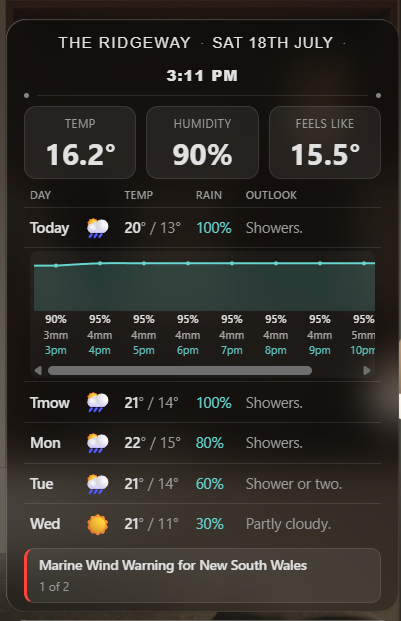
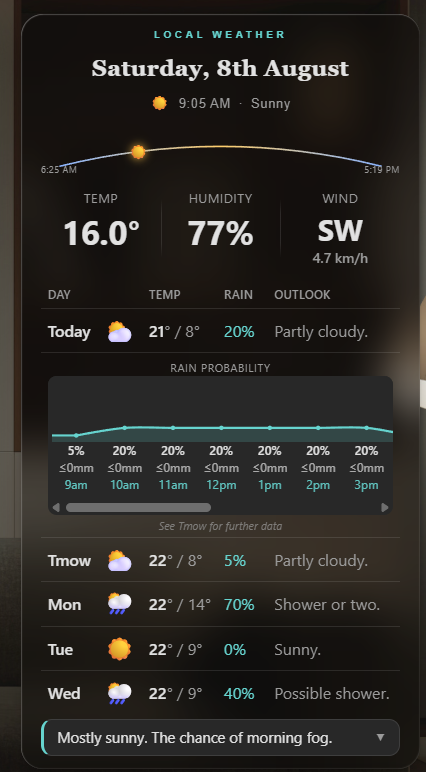
Add Air Quality feature (NSW), sync temp graph docs, refresh screenshots
Ports the NSW air quality reading and header_icon attribute that were live
in production but never pushed here — Box 3 can now show a severe/poor AQI
category (severe outranks even a high wind gust), fully optional via a
blank site ID. Also documents the temperature graph / raw grid tap-cycle
that shipped in dist/ but was never written up, and swaps all screenshots
for the current masthead+sun-arc header design.

diff --git a/dist/ha-weatherflow-bom-weathercard.js b/dist/ha-weatherflow-bom-weathercard.js
@@ -90,6 +90,8 @@ const STYLE = `
   .box1.tappable:active, .box2.tappable:active { transform: scale(0.97); transition: transform 0.08s; }
 
   .box3.rain .value { color: #66D4CF; }
+  .box3.aqi-poor .value { color: #FF9F0A; }
+  .box3.aqi-severe .value { color: #FF453A; animation: text-pulse-red 4s ease-in-out infinite; }
   .box3.lightning .value, .box3.wind-notable .value { color: #FF9F0A; }
   .box.high-temp-notable .value, .box3.feels-hotter-notable .value { color: #FF9F0A; }
   .box3.high-wind .value, .box3.uv-extreme .value,
@@ -526,6 +528,7 @@ class Dash4WeatherCard extends HTMLElement {
   // cell to actual rendered content instead of reserving a fixed-height track that can
   // never exactly match it (box3's alert-lines block is variable height: 0/1/2 lines,
   // cyclable, and the fallback forecast text can expand to its full length).
+  // See docs/reference/best-practices/lovelace-custom-cards.md.
   getGridOptions() {
     return { columns: 12 };
   }

diff --git a/docs/box3-guide.md b/docs/box3-guide.md
@@ -1,10 +1,10 @@
 # Box 3 — How the Auto-Priority Reading Works
 
-Box 3 shows one reading at a time out of seven possible metrics (Wind, Rain,
-Lightning, UV, and three Feels-Like variants). In **Auto** mode it picks
-whichever one is most worth your attention right now, using a fixed priority
-order re-evaluated every time any underlying sensor changes — there's no
-polling interval or hold timer involved in the *selection* itself.
+Box 3 shows one reading at a time out of eight possible metrics (Wind, Rain,
+Lightning, UV, Air Quality, and three Feels-Like variants). In **Auto** mode
+it picks whichever one is most worth your attention right now, using a fixed
+priority order re-evaluated every time any underlying sensor changes —
+there's no polling interval or hold timer involved in the *selection* itself.
 
 ## The priority cascade
 
@@ -12,44 +12,65 @@ polling interval or hold timer involved in the *selection* itself.
 flowchart TD
     Start(["Box 3 recomputes<br/>(any underlying sensor changed)"]) --> Manual{"Manual pin<br/>active?"}
     Manual -->|"Yes (tap-to-cycle)"| ShowManual["Show the pinned reading<br/>(colour/pulse rules below still apply)"]
-    Manual -->|"No — Auto"| P1{"Gust ≥ 60 km/h?"}
-    P1 -->|Yes| Wind["🔴 Wind — pulsing red"]
-    P1 -->|No| P2{"'Feels colder' gap<br/>notable for this temp?"}
-    P2 -->|Yes| Cold["🔵 Feels Colder"]
-    P2 -->|No| P3{"'Feels hotter' gap<br/>notable for this temp?"}
-    P3 -->|Yes| Hot["🔴 Feels Hotter"]
-    P3 -->|No| P4{"Rain intensity<br/>= Extreme?"}
-    P4 -->|Yes| RainExt["🔴 Rain — pulsing red"]
-    P4 -->|No| P5{"Lightning ≥ 10<br/>strikes in last hour?"}
-    P5 -->|Yes| LightExt["🔴 Lightning — pulsing red"]
-    P5 -->|No| P6{"UV index ≥ 11<br/>(Extreme rating)?"}
-    P6 -->|Yes| UvExt["🔴 UV — pulsing red"]
-    P6 -->|No| P7{"Any rain<br/>falling right now?"}
-    P7 -->|Yes| RainAct["🟦 Rain — teal"]
-    P7 -->|No| P8{"Any lightning<br/>in the last hour?"}
-    P8 -->|Yes| LightAct["🟠 Lightning — amber"]
-    P8 -->|No| WindDefault["🌬 Wind (default fallback)<br/>≥ 20 km/h gust → amber 'Gusting'"]
+    Manual -->|"No — Auto"| P1{"Air quality Very Poor<br/>or Extremely Poor?"}
+    P1 -->|Yes| AqiSevere["🔴 Air Quality — pulsing red"]
+    P1 -->|No| P2{"Gust ≥ 60 km/h?"}
+    P2 -->|Yes| Wind["🔴 Wind — pulsing red"]
+    P2 -->|No| P3{"'Feels colder' gap<br/>notable for this temp?"}
+    P3 -->|Yes| Cold["🔵 Feels Colder"]
+    P3 -->|No| P4{"'Feels hotter' gap<br/>notable for this temp?"}
+    P4 -->|Yes| Hot["🔴 Feels Hotter"]
+    P4 -->|No| P5{"Rain intensity<br/>= Extreme?"}
+    P5 -->|Yes| RainExt["🔴 Rain — pulsing red"]
+    P5 -->|No| P6{"Lightning ≥ 10<br/>strikes in last hour?"}
+    P6 -->|Yes| LightExt["🔴 Lightning — pulsing red"]
+    P6 -->|No| P7{"UV index ≥ 11<br/>(Extreme rating)?"}
+    P7 -->|Yes| UvExt["🔴 UV — pulsing red"]
+    P7 -->|No| P8{"Air quality<br/>= Poor?"}
+    P8 -->|Yes| AqiPoor["🟠 Air Quality — amber"]
+    P8 -->|No| P9{"Any rain<br/>falling right now?"}
+    P9 -->|Yes| RainAct["🟦 Rain — teal"]
+    P9 -->|No| P10{"Any lightning<br/>in the last hour?"}
+    P10 -->|Yes| LightAct["🟠 Lightning — amber"]
+    P10 -->|No| WindDefault["🌬 Wind (default fallback)<br/>≥ 20 km/h gust → amber 'Gusting'"]
 ```
 
 Every box below `P1` only gets checked if everything above it was `No` — so a
 genuine extreme (say, a 65 km/h gust) always wins over a merely-active
 condition (say, light rain), no matter which order they started or how long
-either has been going. Wind is the only metric with **no** "merely active"
-tier at all: a 35 km/h gust (notable, but under the 60 km/h extreme cutoff)
-will never outrank active rain or lightning on its own — it only ever shows
-up as the extreme case at the top, or as the fallback at the bottom. To see a
-non-extreme elevated wind reading you'd tap to it manually.
+either has been going. **Air quality's severe tier (`P1`) sits above even a
+high wind gust** — it's the single highest-priority thing this card can show.
+Wind is the only metric with **no** "merely active" tier at all: a 35 km/h
+gust (notable, but under the 60 km/h extreme cutoff) will never outrank
+active rain or lightning on its own — it only ever shows up as the extreme
+case near the top, or as the fallback at the bottom. To see a non-extreme
+elevated wind reading you'd tap to it manually.
+
+**Air quality is optional and NSW-only** (see the main README) — with no
+site configured, or 7+ days of API silence, `P1`/`P8` are always `No` and
+the reading is skipped entirely, cascade behaving exactly as it did before
+this feature existed.
 
 ## Reference table
 
 | Metric | "Merely active" condition | "Extreme" condition | Colour (active) | Colour (extreme) |
 |---|---|---|---|---|
+| Air Quality | *(none — see note below)* | Category Poor (amber) · Very Poor/Extremely Poor (red, highest priority of all) | — | 🟠 Amber (Poor) / 🔴 Red, pulsing (Very Poor+) |
 | Wind | *(none — see note above)* | Gust ≥ 60 km/h | — | 🔴 Red, pulsing |
 | Feels Colder | *(same as extreme — single threshold)* | Gap below actual temp exceeds a sliding scale (see below) | — | 🔵 Blue (pulses only if actual < 10°C) |
 | Feels Hotter | *(same as extreme — single threshold)* | Gap above actual temp exceeds a sliding scale (see below) | — | 🟠 Amber at 27–29.9°C, then 🔴 Red from 30°C (pulses only if actual ≥ 35°C) — see note below |
 | Rain | Any measurable rain (rate > 0 with a real intensity descriptor) | WeatherFlow's own "Extreme" intensity descriptor | 🟦 Teal | 🔴 Red, pulsing |
 | Lightning | ≥ 1 strike in the last hour | ≥ 10 strikes in the last hour | 🟠 Amber | 🔴 Red, pulsing |
 | UV | *(same as extreme — single threshold)* | Index ≥ 11 (standard "Extreme" UV rating) | — | 🔴 Red, pulsing |
+
+**Air Quality has two tiers but neither is a "merely active" state in the
+usual sense** — unlike Rain/Lightning, there's no separate active-but-not-extreme
+flag checked in a second pass. Both Poor and Very Poor/Extremely Poor are
+checked directly in the same extreme-priority pass, just at very different
+positions in it (`P1` and `P8`) — a genuinely severe reading always wins the
+race regardless of what else is going on, while a merely-Poor reading only
+surfaces once every hotter-priority condition above it (wind, feels-like,
+rain/lightning extremes, UV extreme) has already come back `No`.
 
 **Two separate things use similar-sounding thresholds for Feels Colder/Hotter
 — don't conflate them.** The sliding-scale gap table just below decides
@@ -111,11 +132,13 @@ looking at."
 
 Tap Box 3 to step through readings yourself instead of trusting Auto:
 
-**wind → rain → lightning → UV → feels-like → wind → ...**
+**wind → rain → lightning → UV → feels-like → air quality → wind → ...**
 
-Wind and Feels-Like are always reachable; Rain, Lightning, and UV are
-automatically skipped in the cycle whenever they're currently inactive/zero,
-so a tap never lands you on an empty "0 strikes" reading. All the same
+Wind and Feels-Like are always reachable; Rain, Lightning, UV, and Air
+Quality are automatically skipped in the cycle whenever they're currently
+inactive/zero/unconfigured, so a tap never lands you on an empty "0 strikes"
+reading. Air Quality is additionally skipped if no site is configured, or if
+the source API has been silent for 7+ consecutive days. All the same
 colour/pulse rules from the table above still apply to whatever you've
 manually pinned. A manual pin reverts to Auto after 1 minute of inactivity,
 on a double-tap, or immediately if a genuinely new extreme condition becomes
